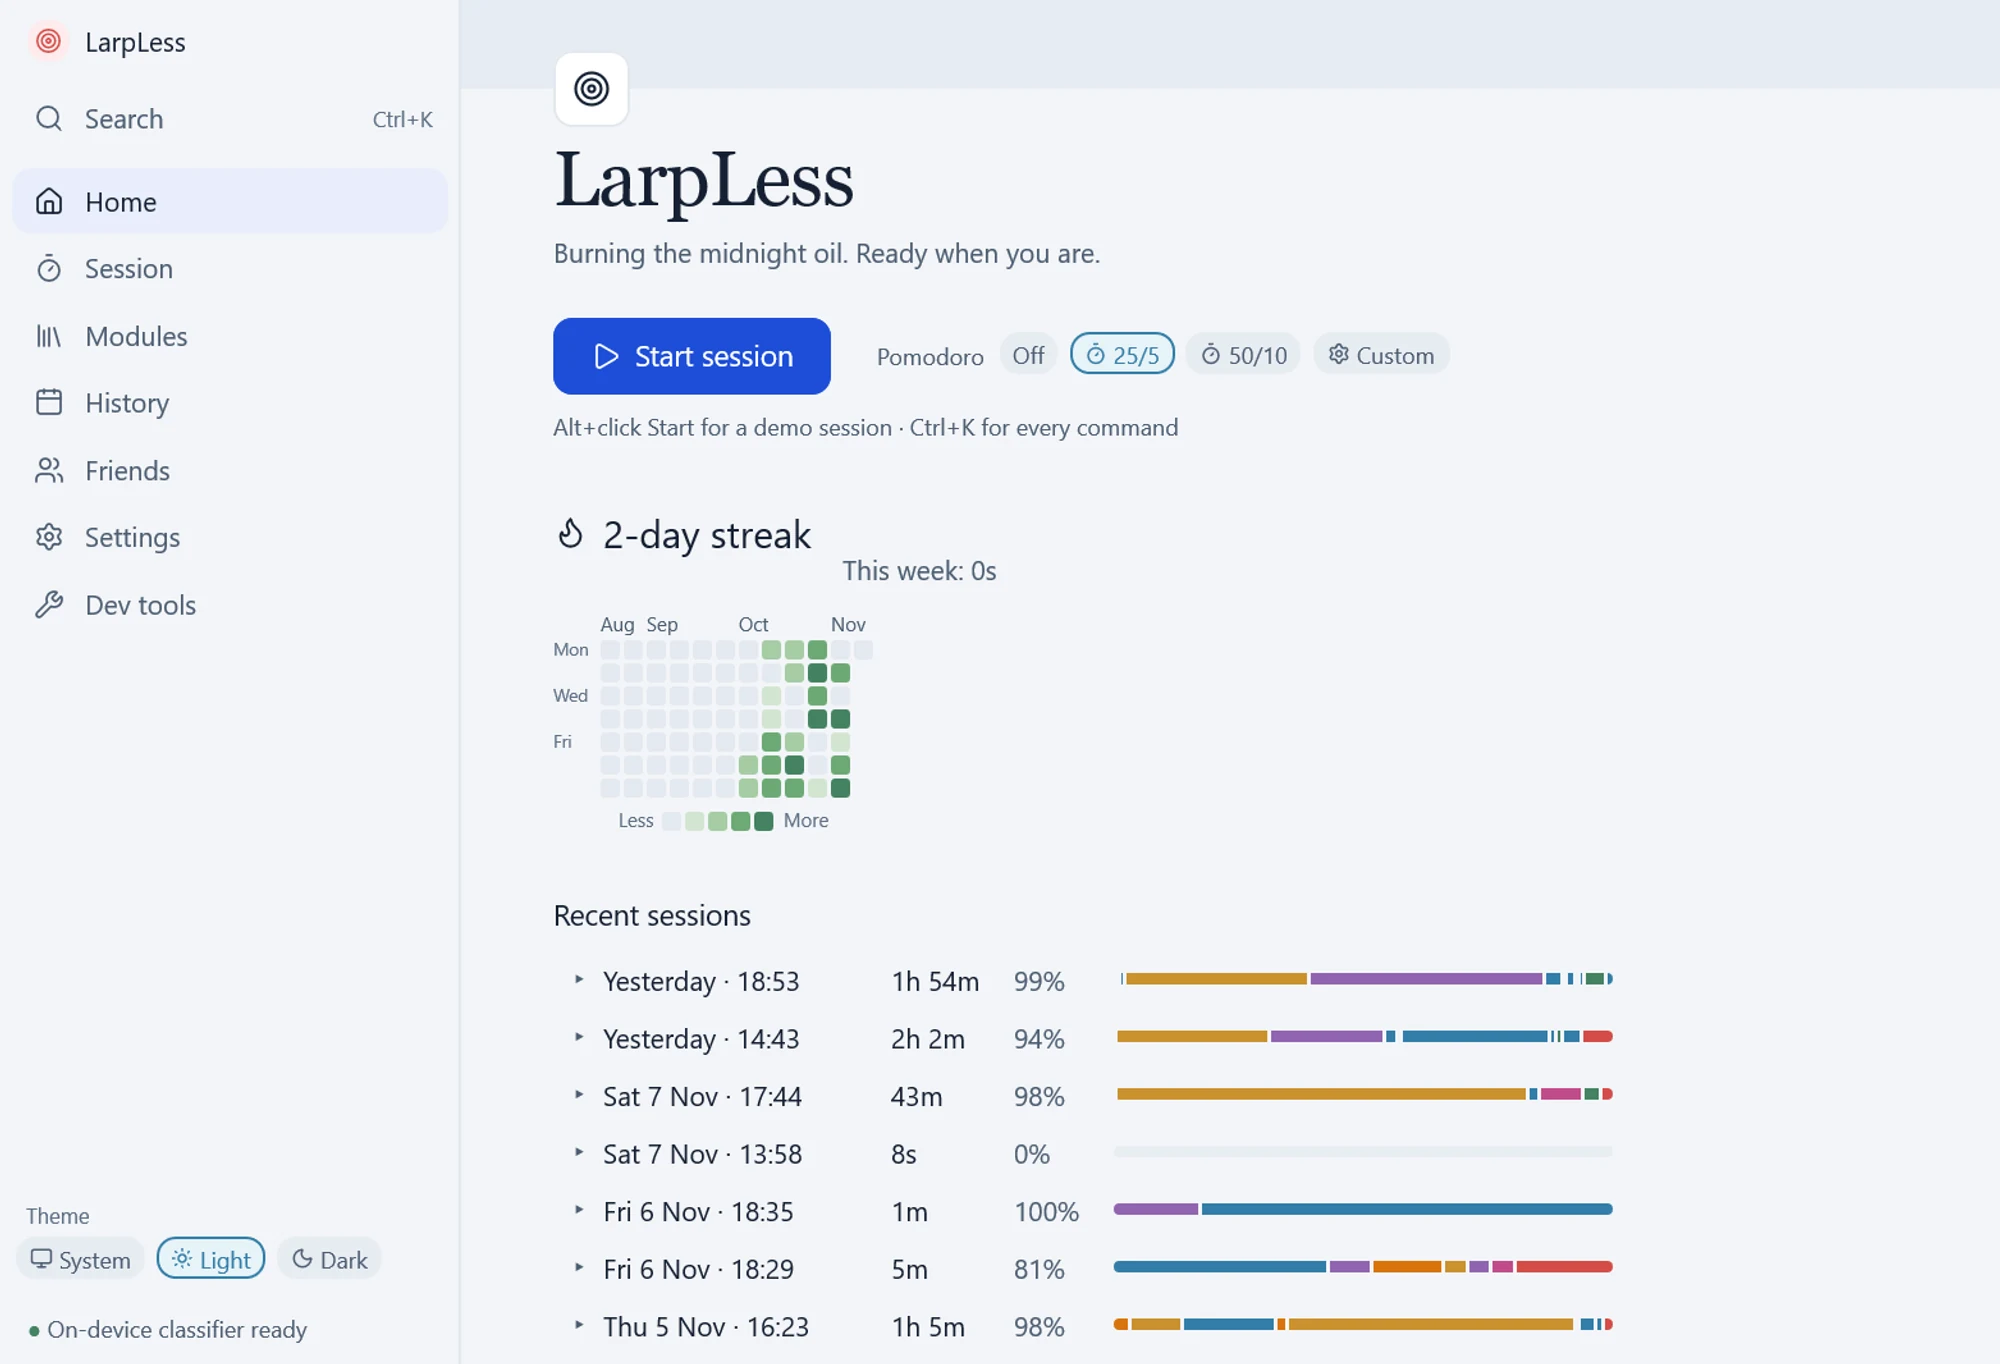
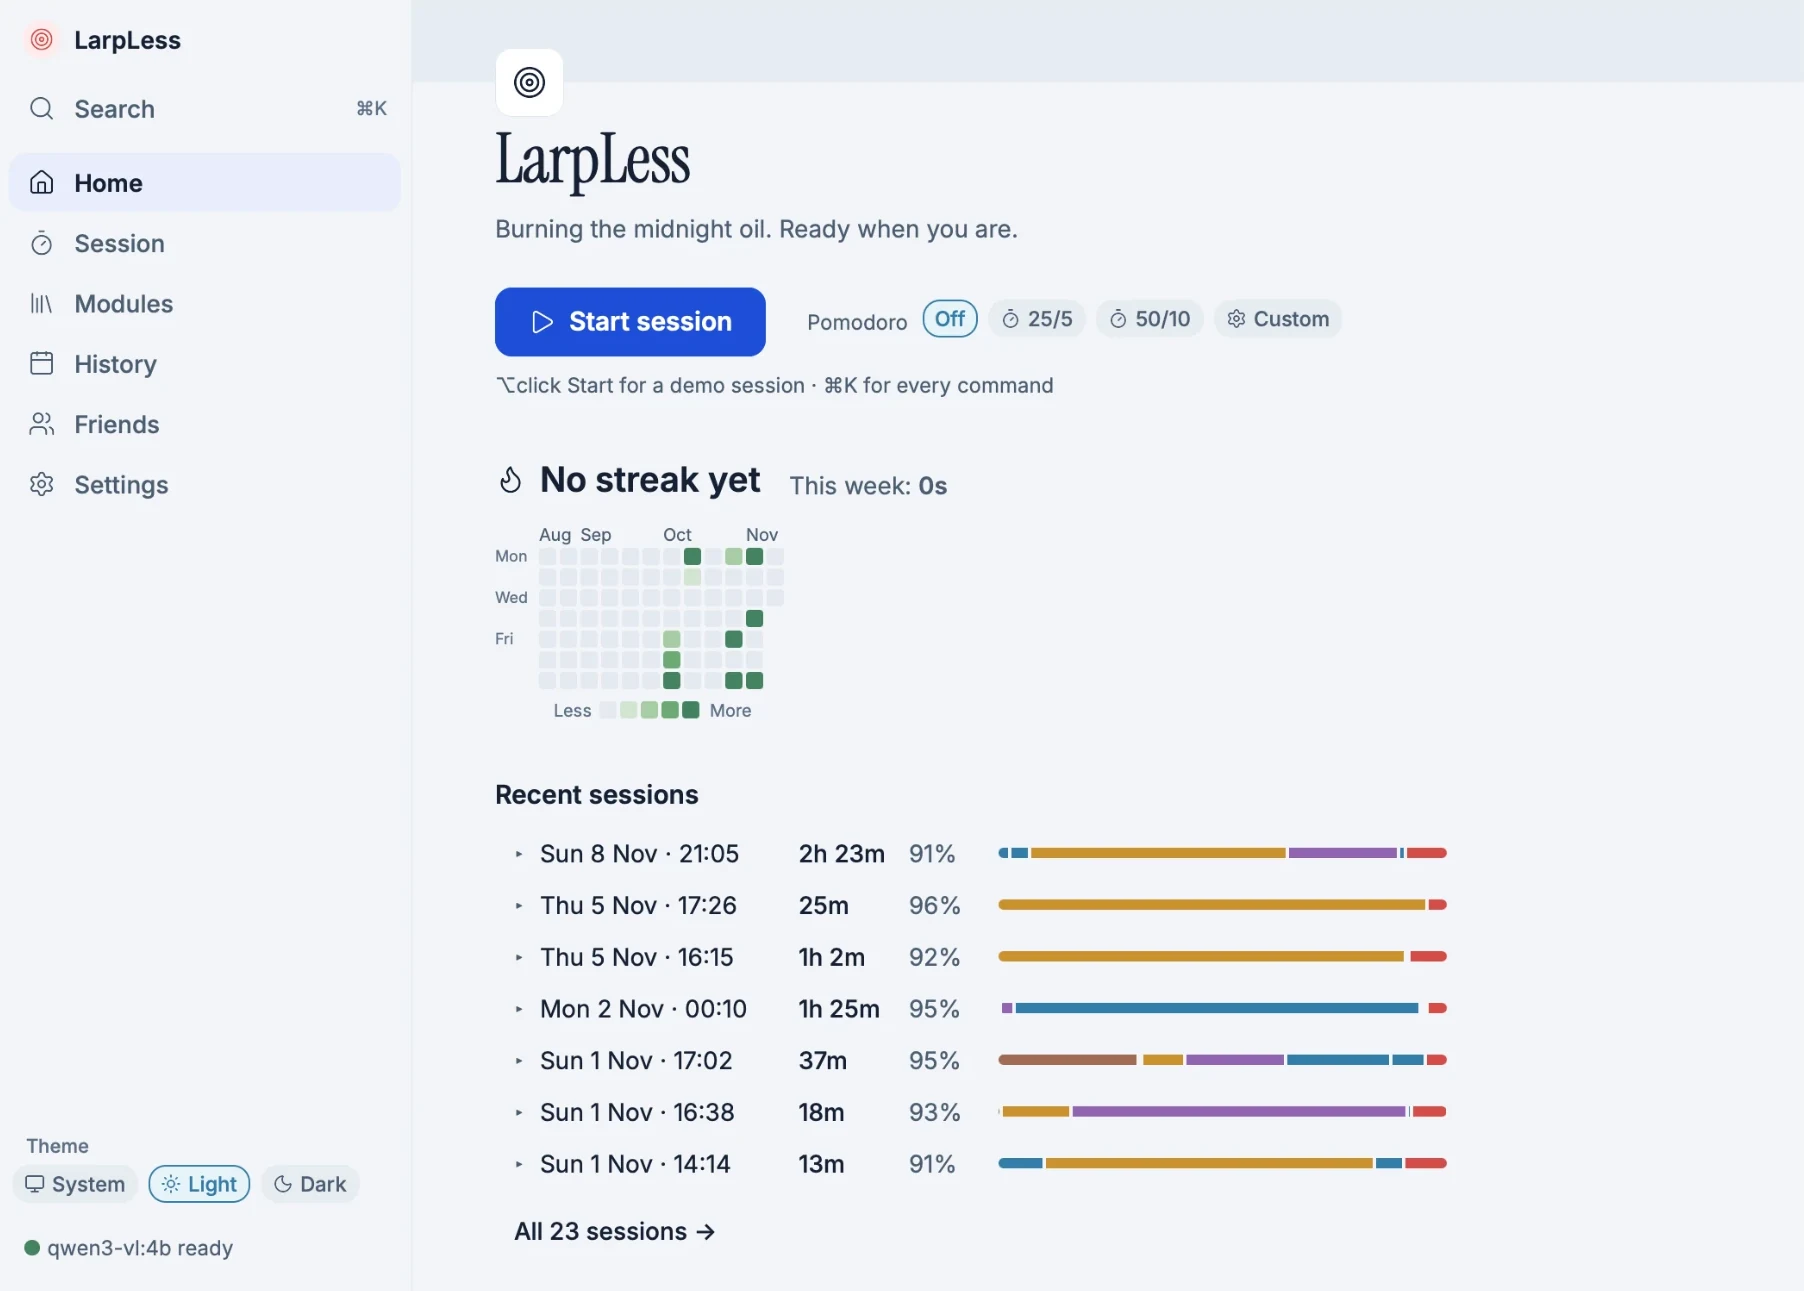
feat(feedback): restructure feedback section and update hero image

diff --git a/site/index.html b/site/index.html
@@ -90,7 +90,6 @@
           <a class="nav-link" href="#how">How it works</a>
           <a class="nav-link" href="#privacy">Privacy</a>
           <a class="nav-link" href="#friends">Friends</a>
-          <a class="nav-link" href="#feedback">Feedback</a>
           <a class="soon gh" href="https://github.com/AlperErg/larpless" rel="noopener" data-umami-event="GitHub: Nav"><svg class="gh-mark" viewBox="0 0 16 16" aria-hidden="true"><path d="M8 0C3.58 0 0 3.58 0 8c0 3.54 2.29 6.53 5.47 7.59.4.07.55-.17.55-.38 0-.19-.01-.82-.01-1.49-2.01.37-2.53-.49-2.69-.94-.09-.23-.48-.94-.82-1.13-.28-.15-.68-.52-.01-.53.63-.01 1.08.58 1.23.82.72 1.21 1.87.87 2.33.66.07-.52.28-.87.51-1.07-1.78-.2-3.64-.89-3.64-3.95 0-.87.31-1.59.82-2.15-.08-.2-.36-1.02.08-2.12 0 0 .67-.21 2.2.82.64-.18 1.32-.27 2-.27.68 0 1.36.09 2 .27 1.53-1.04 2.2-.82 2.2-.82.44 1.1.16 1.92.08 2.12.51.56.82 1.27.82 2.15 0 3.07-1.87 3.75-3.65 3.95.29.25.54.73.54 1.48 0 1.07-.01 1.93-.01 2.2 0 .21.15.46.55.38A8.013 8.013 0 0 0 16 8c0-4.42-3.58-8-8-8z"/></svg><span>GitHub</span></a>
         </nav>
         <button type="button" class="menu-btn" id="menu-btn" aria-haspopup="dialog" aria-controls="menu" aria-expanded="false">
@@ -105,7 +104,6 @@
         <a href="#how"><span>How it works</span><svg class="chev" viewBox="0 0 16 16" aria-hidden="true"><path d="M6 3.5L10.5 8 6 12.5"/></svg></a>
         <a href="#privacy"><span>Privacy</span><svg class="chev" viewBox="0 0 16 16" aria-hidden="true"><path d="M6 3.5L10.5 8 6 12.5"/></svg></a>
         <a href="#friends"><span>Friends</span><svg class="chev" viewBox="0 0 16 16" aria-hidden="true"><path d="M6 3.5L10.5 8 6 12.5"/></svg></a>
-        <a href="#feedback"><span>Feedback</span><svg class="chev" viewBox="0 0 16 16" aria-hidden="true"><path d="M6 3.5L10.5 8 6 12.5"/></svg></a>
       </nav>
       <a class="soon soon-lg sheet-cta" href="#download" data-umami-event="Get LarpLess: Menu"><span>Get LarpLess</span></a>
       <form method="dialog">
@@ -131,8 +129,8 @@
               <div class="ipad-screen">
                 <img
                   src="./home.webp"
-                  width="2000"
-                  height="1364"
+                  width="1804"
+                  height="1291"
                   alt="LarpLess home screen: Start session, Pomodoro presets, a streak heatmap, and recent sessions"
                   fetchpriority="high"
                   draggable="false"
@@ -395,18 +393,6 @@
           </div>
         </section>
 
-        <section class="band feedback" id="feedback">
-          <div class="section-head">
-            <h2>Feedback.</h2>
-            <p>LarpLess is new, and what you tell us decides what gets fixed and built next. A wrong label, a bug or an idea: every message is read and helps improve the app.</p>
-          </div>
-          <div class="closer-actions">
-            <a class="soon soon-lg" href="mailto:support@larpless.app?subject=LarpLess%20feedback" data-umami-event="Feedback: Email"><span>Email us</span></a>
-            <a class="ghost" href="https://github.com/AlperErg/larpless/issues/new?template=feedback.yml" rel="noopener" data-umami-event="Feedback: GitHub issue"><svg class="gh-mark" viewBox="0 0 16 16" aria-hidden="true"><path d="M8 0C3.58 0 0 3.58 0 8c0 3.54 2.29 6.53 5.47 7.59.4.07.55-.17.55-.38 0-.19-.01-.82-.01-1.49-2.01.37-2.53-.49-2.69-.94-.09-.23-.48-.94-.82-1.13-.28-.15-.68-.52-.01-.53.63-.01 1.08.58 1.23.82.72 1.21 1.87.87 2.33.66.07-.52.28-.87.51-1.07-1.78-.2-3.64-.89-3.64-3.95 0-.87.31-1.59.82-2.15-.08-.2-.36-1.02.08-2.12 0 0 .67-.21 2.2.82.64-.18 1.32-.27 2-.27.68 0 1.36.09 2 .27 1.53-1.04 2.2-.82 2.2-.82.44 1.1.16 1.92.08 2.12.51.56.82 1.27.82 2.15 0 3.07-1.87 3.75-3.65 3.95.29.25.54.73.54 1.48 0 1.07-.01 1.93-.01 2.2 0 .21.15.46.55.38A8.013 8.013 0 0 0 16 8c0-4.42-3.58-8-8-8z"/></svg><span>Open a GitHub issue</span></a>
-          </div>
-          <p class="closer-meta feedback-meta">Or write to <a href="mailto:support@larpless.app">support@larpless.app</a>. GitHub issues are public; email is private.</p>
-        </section>
-
         <section class="band closer" id="download">
           <div class="section-head">
             <h2>Get LarpLess.</h2>
@@ -467,6 +453,17 @@
             </div>
           </details>
 
+          <div class="feedback" id="feedback">
+            <p class="feedback-text">
+              <span class="build-title">Send feedback</span>
+              <span class="build-sub">If you run into a problem with LarpLess, feel free to send us an email or, better yet, open a GitHub issue so that fixing it is practically on our to-do list.</span>
+            </p>
+            <div class="feedback-links">
+              <a class="ghost" href="mailto:support@larpless.app?subject=LarpLess%20feedback" data-umami-event="Feedback: Email"><svg class="mail" viewBox="0 0 16 16" aria-hidden="true"><rect x="1.75" y="3.25" width="12.5" height="9.5" rx="1.75"/><path d="M2.5 4.5L8 8.75l5.5-4.25"/></svg><span>Email</span></a>
+              <a class="ghost" href="https://github.com/AlperErg/larpless/issues/new?template=feedback.yml" rel="noopener" data-umami-event="Feedback: GitHub issue"><svg class="gh-mark" viewBox="0 0 16 16" aria-hidden="true"><path d="M8 0C3.58 0 0 3.58 0 8c0 3.54 2.29 6.53 5.47 7.59.4.07.55-.17.55-.38 0-.19-.01-.82-.01-1.49-2.01.37-2.53-.49-2.69-.94-.09-.23-.48-.94-.82-1.13-.28-.15-.68-.52-.01-.53.63-.01 1.08.58 1.23.82.72 1.21 1.87.87 2.33.66.07-.52.28-.87.51-1.07-1.78-.2-3.64-.89-3.64-3.95 0-.87.31-1.59.82-2.15-.08-.2-.36-1.02.08-2.12 0 0 .67-.21 2.2.82.64-.18 1.32-.27 2-.27.68 0 1.36.09 2 .27 1.53-1.04 2.2-.82 2.2-.82.44 1.1.16 1.92.08 2.12.51.56.82 1.27.82 2.15 0 3.07-1.87 3.75-3.65 3.95.29.25.54.73.54 1.48 0 1.07-.01 1.93-.01 2.2 0 .21.15.46.55.38A8.013 8.013 0 0 0 16 8c0-4.42-3.58-8-8-8z"/></svg><span>GitHub issue</span></a>
+            </div>
+          </div>
+
           <p class="closer-meta">Free and open source under the <a href="https://github.com/AlperErg/larpless/blob/main/LICENSE" rel="noopener">AGPL-3.0</a> licence</p>
         </section>
       </div>
@@ -482,7 +479,6 @@
           <a href="#how">How it works</a>
           <a href="#privacy">Privacy</a>
           <a href="#friends">Friends</a>
-          <a href="#feedback">Feedback</a>
           <a href="./privacy/">Privacy Policy</a>
           <a href="./terms/">Terms of Use</a>
           <a href="https://github.com/AlperErg/larpless" rel="noopener">GitHub</a>

diff --git a/site/src/style.css b/site/src/style.css
@@ -339,10 +339,10 @@ a:hover {
 
 .ipad {
   /* Fit the frame to the viewport: full screenshot, no tilt, no empty scroll runway. */
-  width: min(100%, calc((100dvh - 17rem) * 2000 / 1364));
+  width: min(100%, calc((100dvh - 17rem) * 1804 / 1291));
   max-width: 64rem;
   height: auto;
-  aspect-ratio: 2000 / 1364;
+  aspect-ratio: 1804 / 1291;
   margin: 0.65rem auto 0;
   padding: 0.5rem;
   border: 3px solid #6c6c6c;
@@ -450,25 +450,25 @@ a:hover {
   }
 
   .ipad {
-    width: min(100%, calc((100dvh - 11rem) * 2000 / 1364));
+    width: min(100%, calc((100dvh - 11rem) * 1804 / 1291));
     margin-top: 0.5rem;
   }
 }
 
 /* On phones the whole window shrinks past reading size, so the frame zooms in on
-   the main column: the title, Start session, Pomodoro and the streak (x 500–1480, y 40–870 of 2000×1364).
+   the main column: the title, Start session, Pomodoro and the streak (x 460–1380, y 30–765 of 1804×1291).
    Re-measure these if home.webp changes. */
 @media (max-width: 600px) {
   .ipad {
     width: 100%;
-    aspect-ratio: 980 / 830;
+    aspect-ratio: 920 / 735;
   }
 
   .ipad-screen img {
-    width: 204.08%;
+    width: 196.09%;
     max-width: none;
     height: auto;
-    margin: -4.08% 0 0 -51.02%;
+    margin: -3.26% 0 0 -50%;
     object-fit: fill;
   }
 }
@@ -2098,17 +2098,48 @@ a.soon:focus-visible {
   font-size: 13px;
 }
 
-/* Feedback section: the same button row as the download section. */
+/* Feedback: a quiet row under "Build it yourself", sharing its rules and type. */
 .feedback {
-  text-align: center;
+  display: flex;
+  flex-wrap: wrap;
+  align-items: center;
+  gap: 8px 24px;
+  max-width: 44rem;
+  margin: 0 auto;
+  padding: 20px 4px;
+  text-align: left;
+  border-bottom: 1px solid var(--line);
 }
 
-.feedback .section-head {
-  margin-bottom: 32px;
+.feedback-text {
+  flex: 1 1 18rem;
+  margin: 0;
+  max-width: none;
 }
 
-.feedback-meta {
-  margin-top: 20px;
+.feedback-links {
+  display: flex;
+  gap: 4px 12px;
+  margin-right: -8px;
+}
+
+.feedback-links .ghost {
+  white-space: nowrap;
+}
+
+.ghost .mail {
+  width: 1.05em;
+  height: 1.05em;
+  fill: none;
+  stroke: currentColor;
+  stroke-width: 1.4;
+  stroke-linejoin: round;
+}
+
+@media (max-width: 560px) {
+  .feedback-links {
+    margin: 0 0 -8px -8px;
+  }
 }
 
 .closer-meta a {
